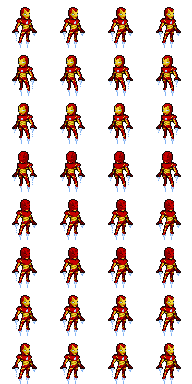
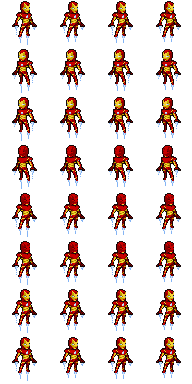
Iron Man flota 6 px sobre el suelo (colisión y sombra quedan abajo)
Claude-Session: https://claude.ai/code/session_01NKXfdGR8G1iTrYkbieCHGV

diff --git a/src/characters/ironman/ironManDefinition.ts b/src/characters/ironman/ironManDefinition.ts
@@ -6,7 +6,7 @@ export const IRON_MAN_ID = 'ironman';
 /**
  * Los spritesheets actuales son provisionales (generados con tools/generate-sprites.mjs).
  * Para reemplazarlos por arte definitivo alcanza con sustituir los PNG respetando el formato:
- * cuadros de 48×48 (Iron Man es más grande que el resto), una fila por dirección (orden de core/direction.ts), los pies en (24, 41).
+ * cuadros de 48×48 (Iron Man es más grande que el resto), una fila por dirección (orden de core/direction.ts), el suelo en (24, 41) y el cuerpo flota 6 px arriba.
  */
 export const ironManDefinition: CharacterDefinition = {
   id: IRON_MAN_ID,
